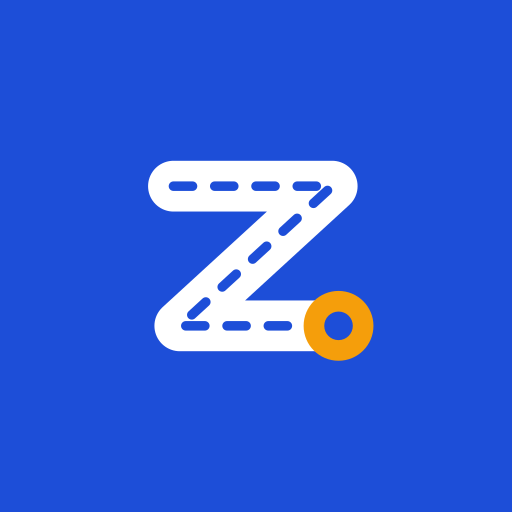
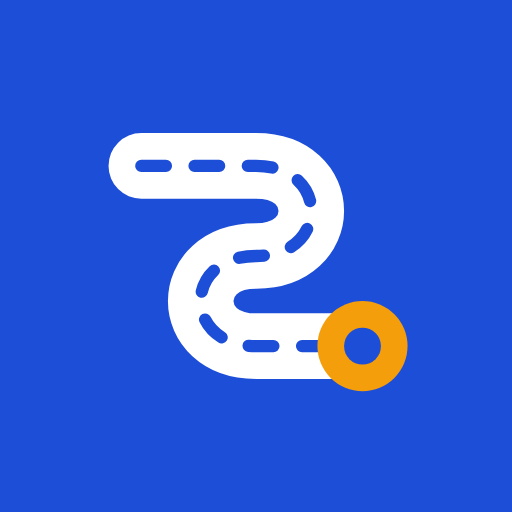
feat: novo nome Rua Viva e símbolo de rua em curva
'Bora Zelar' foi descartado: a busca no INPI mostrou um pedido da marca
ZELAR na classe 42 (software) em exame. 'Rua Viva' não tem registro.

- Marca padrão passa a ser 'Rua Viva' (logotipo: Rua **Viva**).
- O símbolo troca o Z por uma rua em curva com o pino, no mesmo estilo.
- Ícones do app, favicon e imagem de compartilhamento refeitos.
- README e CHANGELOG atualizados. Protocolo segue ZD-XXXXXX.

Changed region(s): [[0.1875, 0.25, 0.8125, 0.7812]]

diff --git a/frontend/src/components/Logotipo.jsx b/frontend/src/components/Logotipo.jsx
@@ -1,7 +1,7 @@
 import { MARCA } from '../lib/marca'
 
 /**
- * Marca "Bora Zelar" (nome vem de lib/marca.js), direção Rota: símbolo (Z feito de rua, com o pino) + nome em dois pesos.
+ * Marca "Rua Viva" (nome vem de lib/marca.js), direção Rota: símbolo (rua em curva, com o pino) + nome em dois pesos.
  * O símbolo é SVG inline para ficar nítido em qualquer tamanho e funcionar offline.
  */
 export function SimboloMarca({ size = 32, className = '', fundo = '#1D4ED8', traco = '#FFFFFF', acento = '#F59E0B', titulo }) {
@@ -16,8 +16,8 @@ export function SimboloMarca({ size = 32, className = '', fundo = '#1D4ED8', tra
       aria-hidden={titulo ? undefined : true}
     >
       <rect x="4" y="4" width="92" height="92" rx="24" fill={fundo} />
-      <path d="M24 28 H74 L26 72 H76" fill="none" stroke={traco} strokeWidth="16" strokeLinecap="round" strokeLinejoin="round" />
-      <path d="M24 28 H74 L26 72 H76" fill="none" stroke={fundo} strokeWidth="3" strokeDasharray="6 7" strokeLinecap="round" strokeLinejoin="round" />
+      <path d="M22 28 H50 C68 28 68 50 50 50 C32 50 32 72 50 72 H74" fill="none" stroke={traco} strokeWidth="16" strokeLinecap="round" strokeLinejoin="round" />
+      <path d="M22 28 H50 C68 28 68 50 50 50 C32 50 32 72 50 72 H74" fill="none" stroke={fundo} strokeWidth="3" strokeDasharray="6 7" strokeLinecap="round" strokeLinejoin="round" />
       <circle cx="76" cy="72" r="11" fill={acento} />
       <circle cx="76" cy="72" r="4.5" fill={fundo} />
     </svg>
@@ -34,7 +34,7 @@ export default function Logotipo({ size = 30, escuro = false, className = '', co
     <span className={`inline-flex items-center gap-2 ${className}`}>
       <SimboloMarca size={size} fundo={escuro ? '#FFFFFF' : '#1D4ED8'} traco={escuro ? '#1D4ED8' : '#FFFFFF'} />
       <span className="font-marca leading-none tracking-tight whitespace-nowrap" style={{ fontSize: texto }}>
-        {/* Palavras iniciais em peso normal; a última em destaque (ex.: Bora **Zelar**). */}
+        {/* Palavras iniciais em peso normal; a última em destaque (ex.: Rua **Viva**). */}
         <span className={`font-normal ${escuro ? 'text-white' : 'text-slate-900'} ${compacto ? 'hidden min-[360px]:inline' : ''}`}>{inicio}</span>{inicio ? ' ' : ''}
         <span className={`font-extrabold ${escuro ? 'text-white' : 'text-blue-700'}`}>{fim}</span>
       </span>

diff --git a/frontend/src/lib/marca.js b/frontend/src/lib/marca.js
@@ -14,8 +14,8 @@
 // Este arquivo também é lido pelo vite.config.js para gerar o manifest e o index.html.
 
 export const MARCA_PADRAO = {
-  nome: 'Bora Zelar',
-  nomeCurto: 'Bora Zelar',
+  nome: 'Rua Viva',
+  nomeCurto: 'Rua Viva',
   cidade: 'Ananindeua',
   uf: 'PA',
   prefeitura: '',

diff --git a/README.md b/README.md
@@ -1,8 +1,8 @@
 <div align="center">
 
-<img src="frontend/public/icon-192.png" alt="Ícone do Bora Zelar" width="96" height="96" />
+<img src="frontend/public/icon-192.png" alt="Ícone do Rua Viva" width="96" height="96" />
 
-# Bora Zelar
+# Rua Viva
 
 **Plataforma cívica para mapear, registrar e acompanhar problemas urbanos em Ananindeua (PA).**
 
@@ -154,11 +154,11 @@ Histórico de versões: [`CHANGELOG.md`](CHANGELOG.md).
 
 [GNU AGPL-3.0](LICENSE) © 2026 Dante Dias Monteiro. Veja também [`NOTICE`](NOTICE).
 
-Você pode usar, estudar, modificar e redistribuir o código. Quem oferecer o Bora Zelar (ou uma versão modificada) a outras pessoas pela internet, por exemplo como serviço para um órgão público, precisa publicar o código-fonte completo dessa versão sob a mesma licença.
+Você pode usar, estudar, modificar e redistribuir o código. Quem oferecer o Rua Viva (ou uma versão modificada) a outras pessoas pela internet, por exemplo como serviço para um órgão público, precisa publicar o código-fonte completo dessa versão sob a mesma licença.
 
 As versões publicadas até a v1.1.0 e até o commit anterior a esta mudança (14/11/2026) continuam sob a licença MIT.
 
-O nome **Bora Zelar** (antes Zelador Digital) e a identidade visual do projeto não são licenciados: não use a marca para oferecer cópias ou serviços derivados sem autorização.
+O nome **Rua Viva** (antes Zelador Digital e Bora Zelar) e a identidade visual do projeto não são licenciados: não use a marca para oferecer cópias ou serviços derivados sem autorização.
 
 Projeto independente de iniciativa comunitária, sem vínculo com a Prefeitura de Ananindeua.
 

diff --git a/CHANGELOG.md b/CHANGELOG.md
@@ -12,7 +12,7 @@ Formato baseado em [Keep a Changelog](https://keepachangelog.com/pt-BR/1.1.0/). 
 - Marca, cidade e categorias configuráveis por prefeitura (variáveis `VITE_MARCA_*` e `VITE_CATEGORIAS`).
 
 ### Alterado
-- Novo nome: **Bora Zelar** (antes Zelador Digital). O símbolo continua; o protocolo segue no formato ZD-XXXXXX.
+- Novo nome: **Rua Viva** (antes Zelador Digital; "Bora Zelar" foi descartado por conflito com a marca ZELAR no INPI). O símbolo vira uma rua em curva com o pino (antes um Z), com ícones e imagem de compartilhamento novos; o protocolo segue no formato ZD-XXXXXX.
 - Nova identidade visual "Rota": símbolo (Z feito de rua com o pino do problema), nome em dois pesos com a fonte Sora (embutida, funciona offline), ícones do app, favicon, imagem de compartilhamento e cartaz atualizados. Cor principal #1D4ED8 e detalhe #F59E0B.
 - Código reorganizado: o App.jsx caiu de ~2.450 para ~1.240 linhas, com telas em `src/telas/`, modais em `src/components/` e funções auxiliares em `src/lib/` (sem mudança de comportamento).
 
